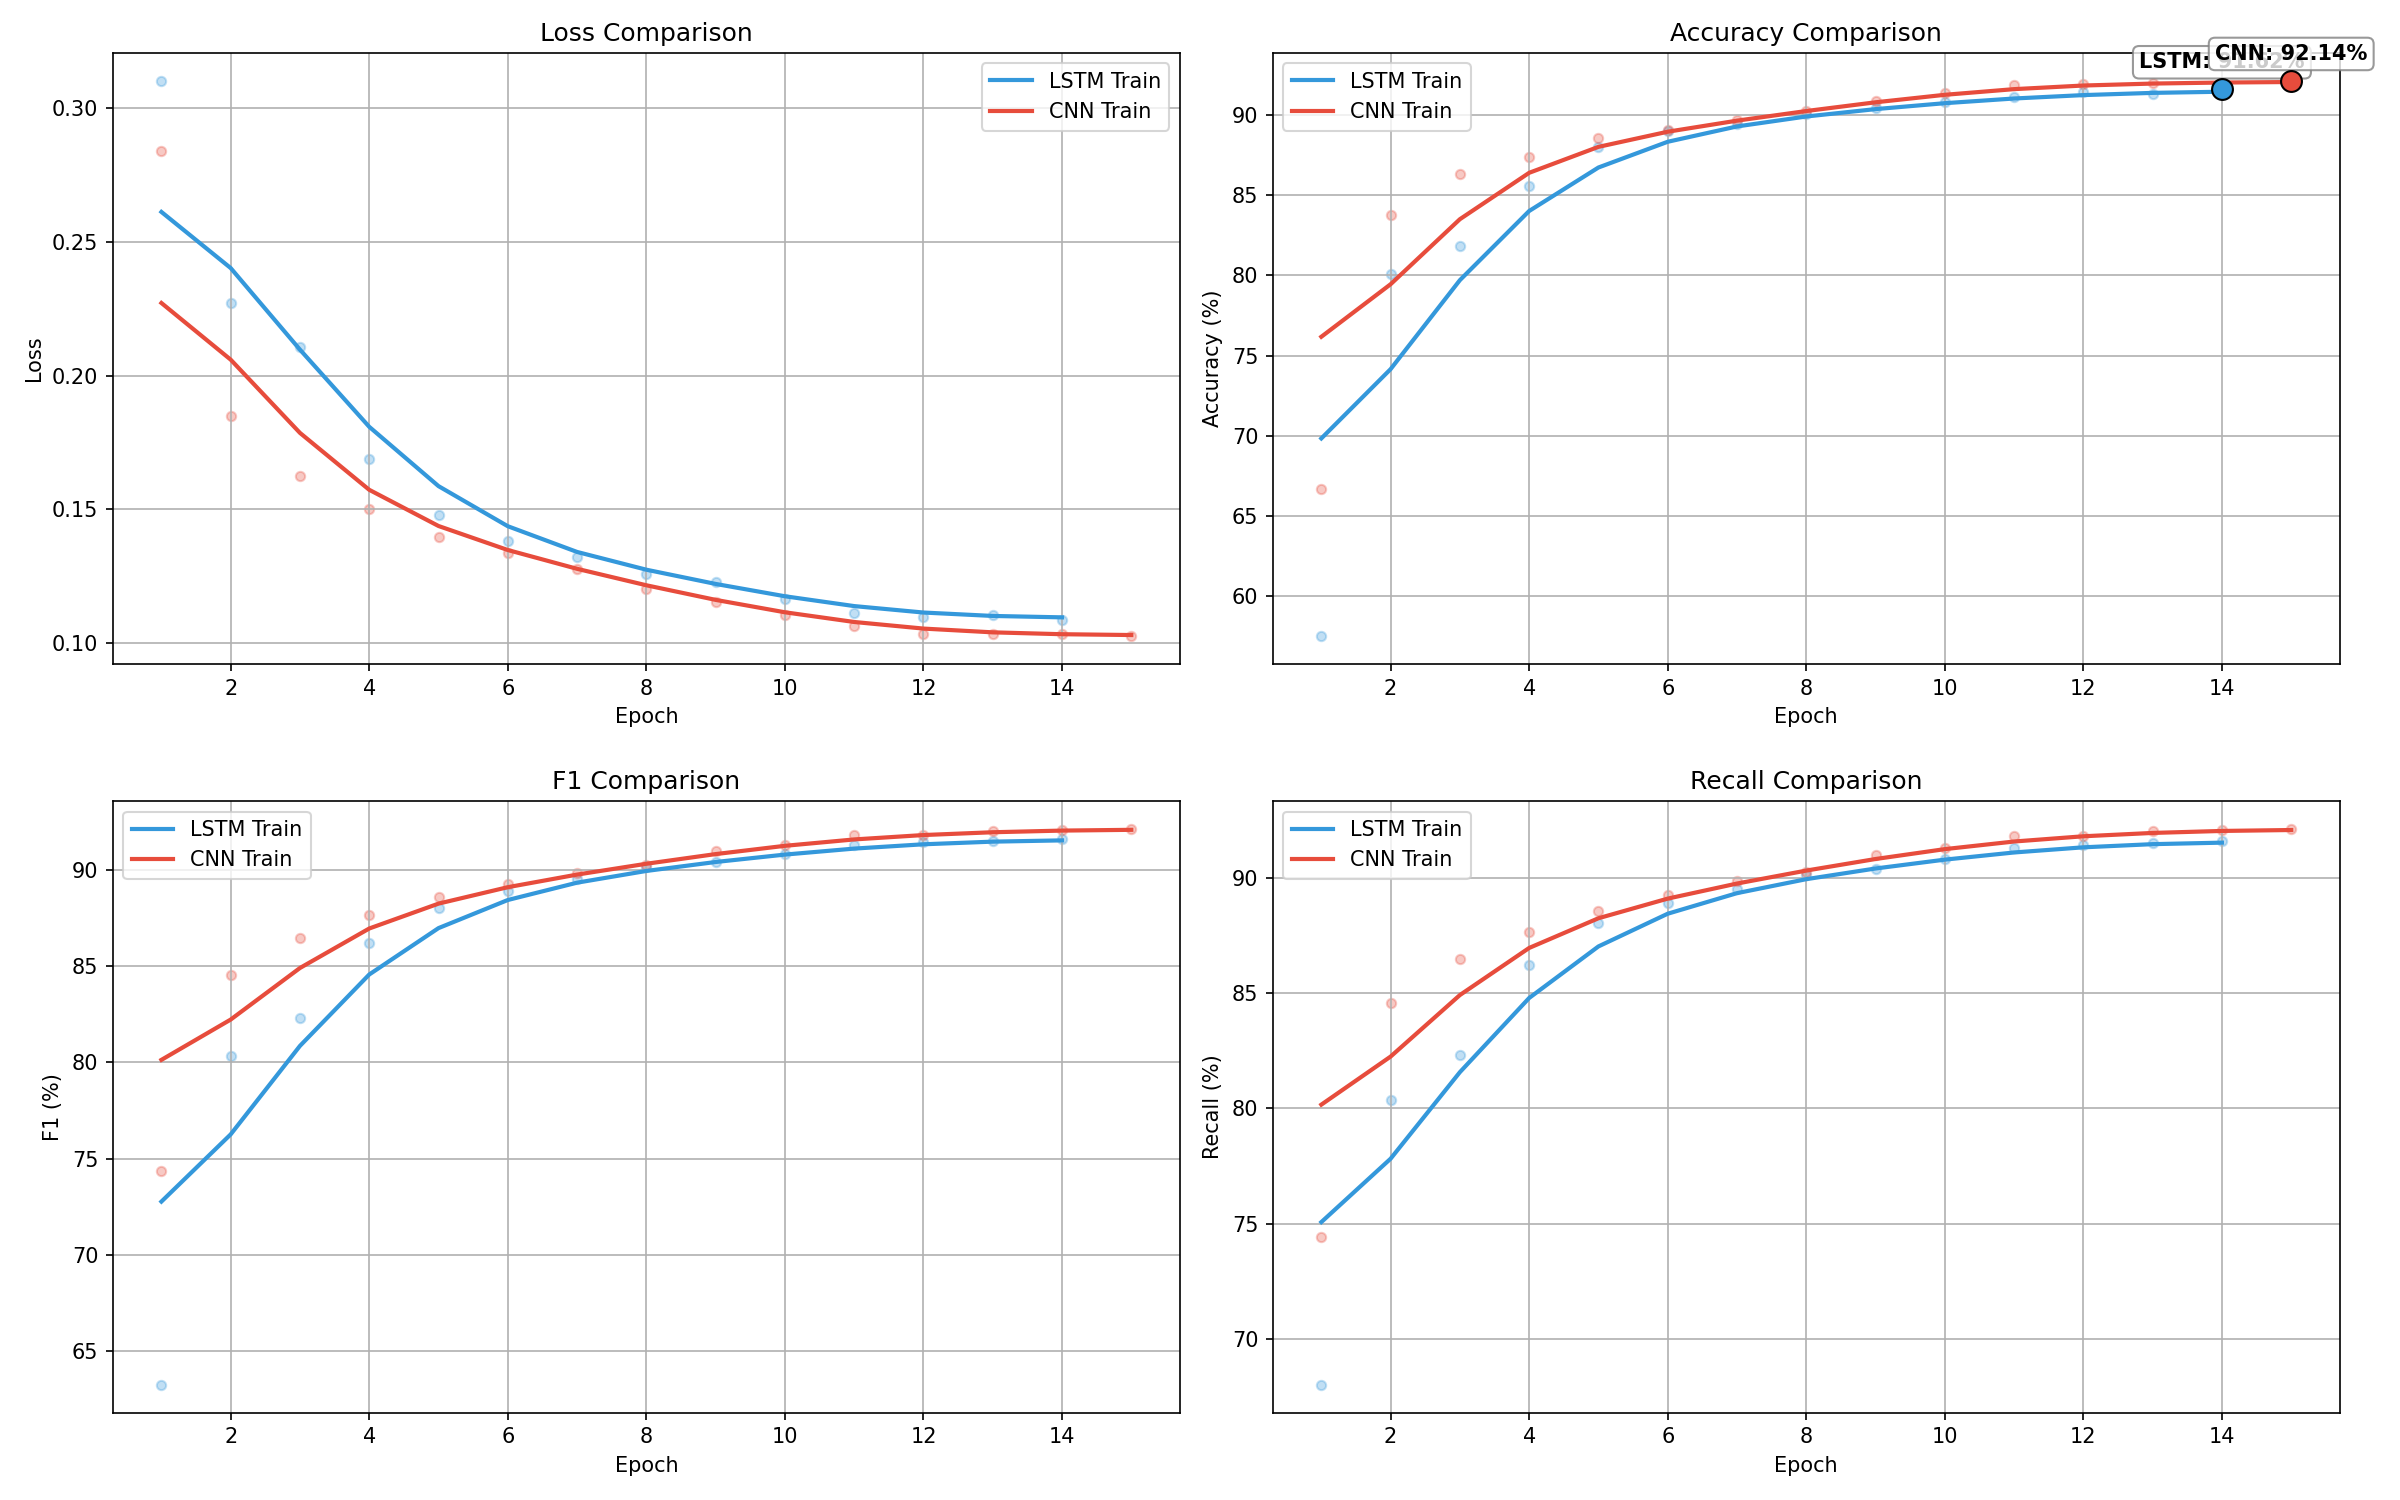
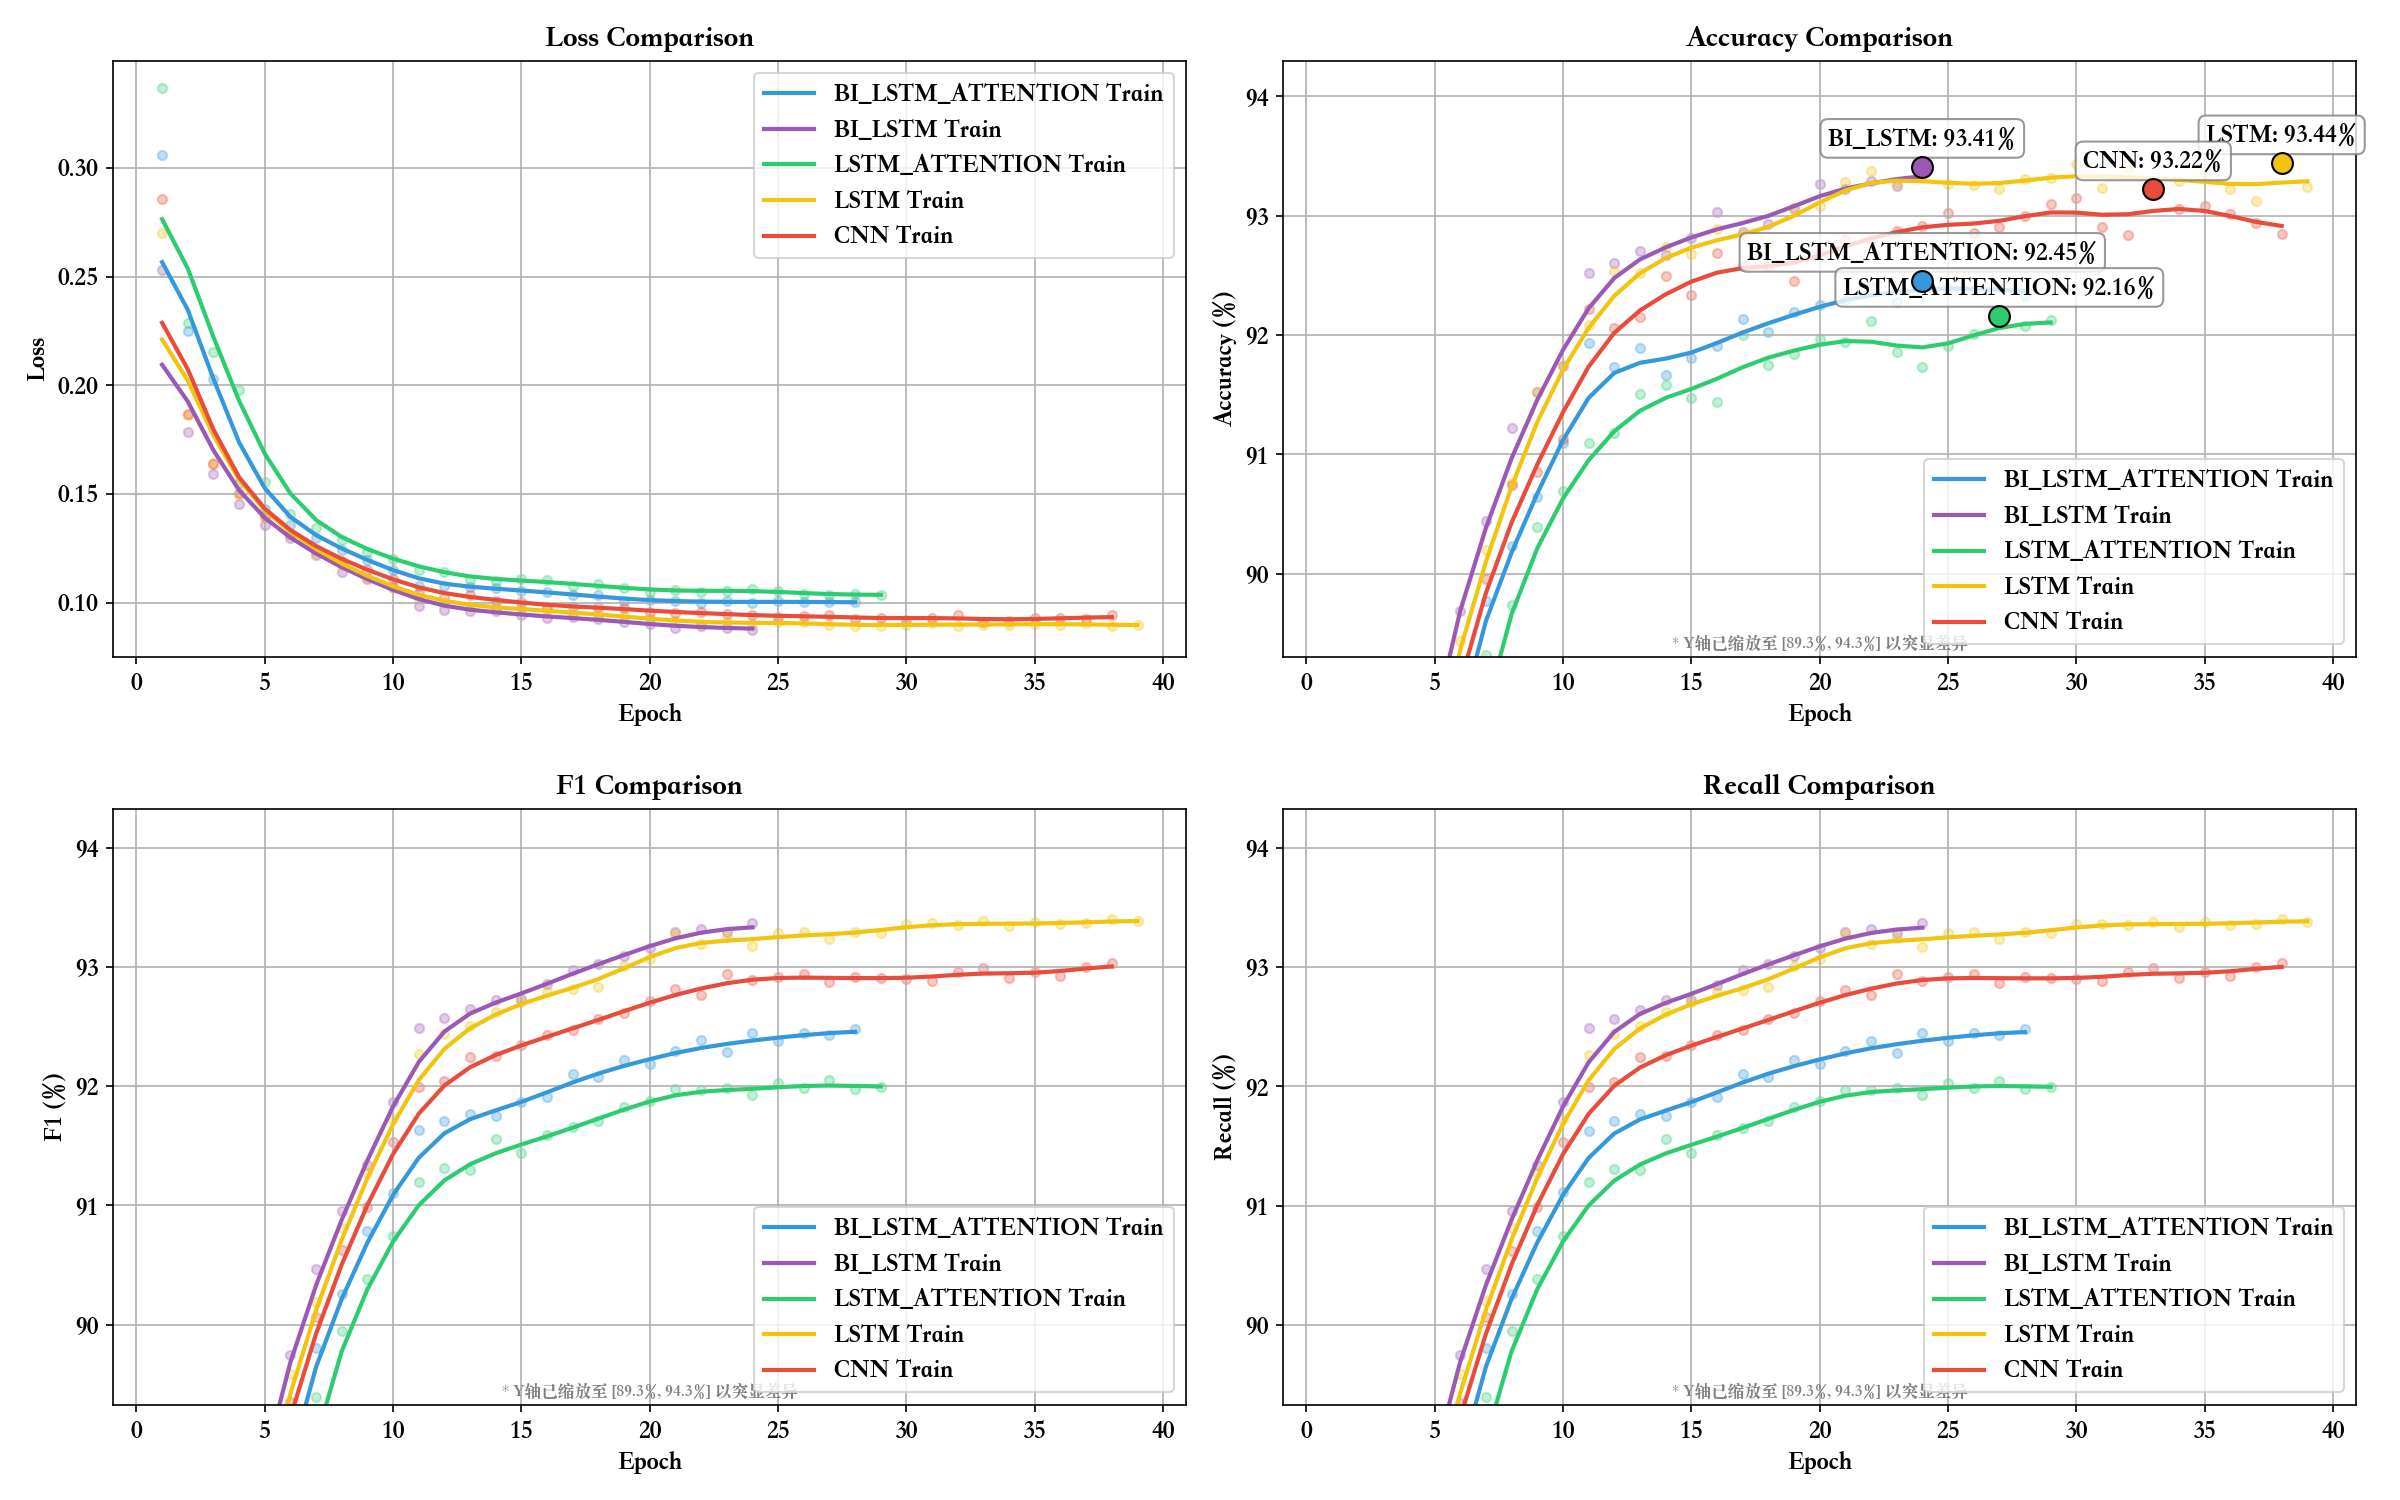
feat(plot): enhance training log visualization with multi-model support and improved styling

diff --git a/plot_train_log.py b/plot_train_log.py
@@ -3,19 +3,29 @@ import pandas as pd
 import argparse
 from scipy.ndimage import gaussian_filter1d
 
+# 设置全局字体为宋体
+def set_plot_style():
+    """设置matplotlib的全局样式，包括中文字体支持"""
+    plt.style.use("seaborn-v0_8-muted")
+    
+    # 设置中文字体，支持不同平台
+    plt.rcParams['font.family'] = ['Songti SC']  # macOS
+    plt.rcParams['axes.unicode_minus'] = False  # 确保负号正确显示
+    plt.rcParams['font.size'] = 12  # 设置默认字体大小
+
 
 def plot_training_log(model_name=None, save_path=None, compare=False):
     """
     绘制训练日志曲线，支持单模型或模型比较
     
     参数：
-        model_name: 模型名称 ('lstm' 或 'cnn')，如果为None且compare=False，则使用默认日志名
+        model_name: 模型名称 ('bi_lstm_attention', 'bi_lstm', 'lstm_attention', 'lstm', 'cnn')，如果为None且compare=False，则使用默认日志名
         save_path: 保存图片的路径，如果为None则自动生成
-        compare: 是否比较两个模型 (lstm vs cnn)
+        compare: 是否比较多个模型
     """
     if compare:
-        # 比较模式：加载两个模型的数据
-        models = ['lstm', 'cnn']
+        # 比较模式：加载多个模型的数据
+        models = ['bi_lstm_attention', 'bi_lstm', 'lstm_attention', 'lstm', 'cnn']
         dfs = {}
         
         for model in models:
@@ -29,8 +39,13 @@ def plot_training_log(model_name=None, save_path=None, compare=False):
                 dfs[model] = df
             except Exception as e:
                 print(f"⚠ 无法加载 {model} 模型日志: {e}")
-                return
+                # 不返回，继续处理其他模型
+                continue
         
+        if not dfs:
+            print("❌ 没有找到任何可用的模型日志")
+            return
+            
         if not save_path:
             save_path = "training_metrics_comparison.png"
         
@@ -60,6 +75,9 @@ def plot_training_log(model_name=None, save_path=None, compare=False):
 
 def plot_single_model(df, save_path, model_name=None):
     """为单个模型绘制训练指标图"""
+    # 设置字体
+    set_plot_style()
+    
     epochs = df["epoch"]
     smooth_sigma = 1.5
 
@@ -77,7 +95,6 @@ def plot_single_model(df, save_path, model_name=None):
     val_recall_s = smooth_or_raw("val_recall")
 
     plt.figure(figsize=(16, 10))
-    plt.style.use("seaborn-v0_8-muted")
     
     model_title = f" ({model_name.upper()})" if model_name else ""
 
@@ -104,7 +121,7 @@ def plot_single_model(df, save_path, model_name=None):
         # Highlight max train accuracy
         max_train_idx = df["train_acc"].idxmax()
         max_train_epoch = df.loc[max_train_idx, "epoch"]
-        max_train_acc = df.loc[max_train_idx, "train_acc"]
+        max_train_acc = df.loc(max_train_idx, "train_acc")
         plt.scatter(max_train_epoch, max_train_acc, color="#3498DB", s=100, edgecolor='black', zorder=5)
         plt.annotate(f"Max: {max_train_acc:.2f}%", 
                     (max_train_epoch, max_train_acc),
@@ -113,7 +130,7 @@ def plot_single_model(df, save_path, model_name=None):
                     ha='center',
                     fontweight='bold',
                     bbox=dict(boxstyle="round,pad=0.3", fc="white", ec="gray", alpha=0.8))
-        
+
     if val_acc_s is not None:
         plt.plot(epochs, val_acc_s, label="Val Acc", color="#34495E", linestyle="--", linewidth=2)
         plt.scatter(epochs, df["val_acc"], color="#34495E", s=20, alpha=0.3)
@@ -172,27 +189,35 @@ def plot_single_model(df, save_path, model_name=None):
 
 
 def plot_comparison(dfs, save_path):
-    """比较两个模型的训练指标"""
+    """比较多个模型的训练指标"""
+    # 设置字体
+    set_plot_style()
+    
     plt.figure(figsize=(16, 10))
-    plt.style.use("seaborn-v0_8-muted")
     
     # 定义每个模型的颜色
     colors = {
-        'lstm': {'train': '#3498DB', 'val': '#2874A6'},  # 蓝色系
-        'cnn': {'train': '#E74C3C', 'val': '#922B21'}    # 红色系
+        'bi_lstm_attention': {'train': '#3498DB', 'val': '#2874A6'},  # 蓝色系
+        'bi_lstm': {'train': '#9B59B6', 'val': '#8E44AD'},           # 紫色系
+        'lstm_attention': {'train': '#2ECC71', 'val': '#27AE60'},     # 绿色系
+        'lstm': {'train': '#F1C40F', 'val': '#D35400'},              # 黄色系
+        'cnn': {'train': '#E74C3C', 'val': '#922B21'}                # 红色系
     }
     
     # 指标名称和它们的位置
     metrics = {
-        'Loss': {'pos': 1, 'col': 'train_loss', 'val_col': 'val_loss', 'ylabel': 'Loss'},
-        'Accuracy': {'pos': 2, 'col': 'train_acc', 'val_col': 'val_acc', 'ylabel': 'Accuracy (%)'},
-        'F1': {'pos': 3, 'col': 'f1', 'val_col': 'val_f1', 'ylabel': 'F1 (%)'},
-        'Recall': {'pos': 4, 'col': 'recall', 'val_col': 'val_recall', 'ylabel': 'Recall (%)'}
+        'Loss': {'pos': 1, 'col': 'train_loss', 'val_col': 'val_loss', 'ylabel': 'Loss', 'magnify': False},
+        'Accuracy': {'pos': 2, 'col': 'train_acc', 'val_col': 'val_acc', 'ylabel': 'Accuracy (%)', 'magnify': True},
+        'F1': {'pos': 3, 'col': 'f1', 'val_col': 'val_f1', 'ylabel': 'F1 (%)', 'magnify': True},
+        'Recall': {'pos': 4, 'col': 'recall', 'val_col': 'val_recall', 'ylabel': 'Recall (%)', 'magnify': True}
     }
     
     # 为每个指标创建子图
     for metric_name, metric_info in metrics.items():
         plt.subplot(2, 2, metric_info['pos'])
+        
+        # 用于收集数据范围的列表
+        all_values = []
         
         # 绘制每个模型的指标
         for model_name, df in dfs.items():
@@ -200,8 +225,8 @@ def plot_comparison(dfs, save_path):
             train_col = metric_info['col']
             val_col = metric_info['val_col']
             
-            # 检查列是否存在
-            if train_col in df.columns:
+            # 检查列是否存在，并确保模型颜色配置存在
+            if train_col in df.columns and model_name in colors:
                 # 平滑处理
                 train_data = gaussian_filter1d(df[train_col], sigma=1.5)
                 plt.plot(epochs, train_data, 
@@ -210,6 +235,9 @@ def plot_comparison(dfs, save_path):
                          linewidth=2)
                 plt.scatter(epochs, df[train_col], 
                            color=colors[model_name]['train'], s=20, alpha=0.3)
+                
+                # 收集数据范围
+                all_values.extend(df[train_col].tolist())
                 
                 # For accuracy metric, highlight the maximum point
                 if metric_name == 'Accuracy':
@@ -226,7 +254,7 @@ def plot_comparison(dfs, save_path):
                                 bbox=dict(boxstyle="round,pad=0.3", fc="white", ec="gray", alpha=0.8))
             
             # 检查验证列是否存在
-            if val_col in df.columns:
+            if val_col in df.columns and model_name in colors:
                 val_data = gaussian_filter1d(df[val_col], sigma=1.5)
                 plt.plot(epochs, val_data, 
                          label=f"{model_name.upper()} Val", 
@@ -234,6 +262,9 @@ def plot_comparison(dfs, save_path):
                          linewidth=2, linestyle='--')
                 plt.scatter(epochs, df[val_col], 
                            color=colors[model_name]['val'], s=20, alpha=0.3)
+                
+                # 收集数据范围
+                all_values.extend(df[val_col].tolist())
                 
                 # For accuracy metric, highlight the maximum point
                 if metric_name == 'Accuracy':
@@ -249,6 +280,44 @@ def plot_comparison(dfs, save_path):
                                 fontweight='bold',
                                 bbox=dict(boxstyle="round,pad=0.3", fc="white", ec="gray", alpha=0.8))
         
+        # 调整Y轴范围以放大差异 (仅对指定的指标)
+        if metric_info['magnify'] and all_values:
+            # 如果是百分比指标 (Accuracy, F1, Recall)
+            if "%" in metric_info['ylabel']:
+                # 找出数据的最小和最大值
+                min_val = max(min(all_values) - 2, 0)  # 下限不低于0
+                max_val = min(max(all_values) + 2, 100)  # 上限不超过100
+                
+                # 使用四分位范围放大差异 (去掉离群值)
+                values = sorted(all_values)
+                q1 = values[int(len(values) * 0.25)]
+                q3 = values[int(len(values) * 0.75)]
+                
+                # 根据数据分布设置适当的放大范围，至少保留5个百分点的间隔
+                y_min = max(min_val, q1 - (q3 - q1) * 0.5)
+                y_max = min(max_val, q3 + (q3 - q1) * 0.5)
+                
+                # 确保范围至少有5个百分点，否则手动扩大
+                if y_max - y_min < 5:
+                    mid = (y_min + y_max) / 2
+                    y_min = max(0, mid - 2.5)
+                    y_max = min(100, mid + 2.5)
+                
+                plt.ylim(y_min, y_max)
+                
+                # 添加注释说明Y轴范围已被缩放
+                plt.annotate(f"* Y轴已缩放至 [{y_min:.1f}%, {y_max:.1f}%] 以突显差异", 
+                            xy=(0.5, 0.01),
+                            xycoords='axes fraction',
+                            ha='center',
+                            va='bottom',
+                            fontsize=8,
+                            style='italic',
+                            color='gray')
+            else:
+                # 对于Loss，可能不需要特殊处理，或者使用不同的逻辑
+                pass
+        
         plt.title(f"{metric_name} Comparison")
         plt.xlabel("Epoch")
         plt.ylabel(metric_info['ylabel'])
@@ -263,9 +332,11 @@ def plot_comparison(dfs, save_path):
 
 if __name__ == "__main__":
     parser = argparse.ArgumentParser(description='绘制训练日志')
-    parser.add_argument('--model', type=str, choices=['lstm', 'cnn'], help='指定模型类型')
+    parser.add_argument('--model', type=str, 
+                        choices=['bi_lstm_attention', 'bi_lstm', 'lstm_attention', 'lstm', 'cnn'],
+                        help='指定模型类型')
     parser.add_argument('--output', type=str, help='输出图像路径')
-    parser.add_argument('--compare', action='store_true', help='比较LSTM和CNN模型')
+    parser.add_argument('--compare', action='store_true', help='比较多个模型')
     args = parser.parse_args()
     
     plot_training_log(model_name=args.model, save_path=args.output, compare=args.compare)
